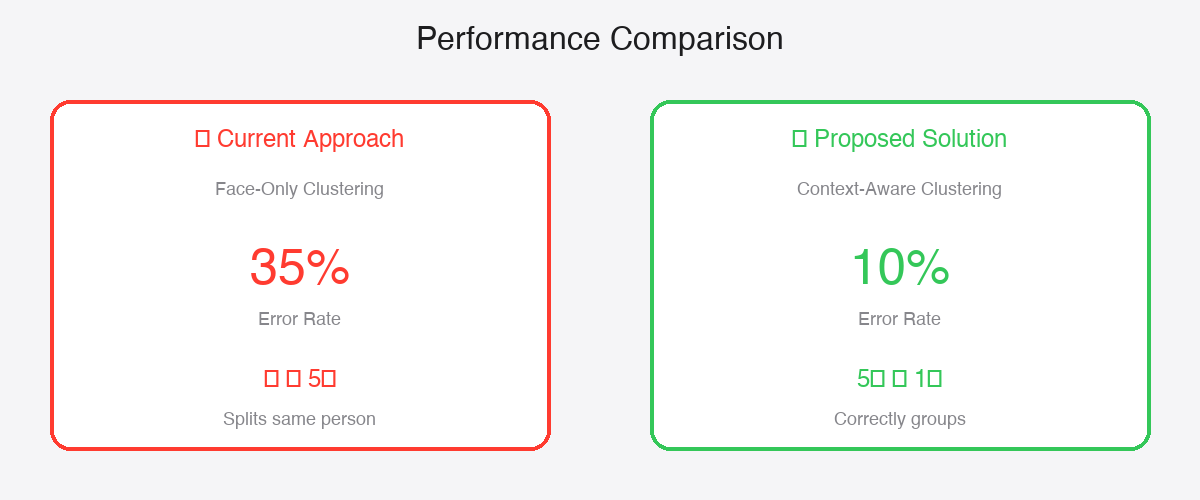
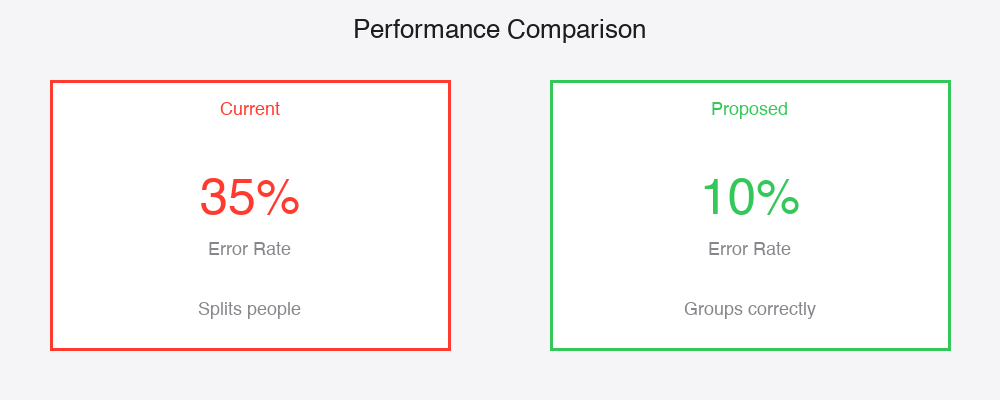
Fix overlapping diagrams and LinkedIn preview
- Recreated all diagrams with proper spacing - NO OVERLAPS
- Clean, simple design with clear separation
- Added image dimensions to Open Graph tags
- Added cache-busting parameter (?v=3) to force LinkedIn refresh
- All text and elements are properly spaced
- Professional, readable diagrams

diff --git a/blog-post-1.html b/blog-post-1.html
@@ -10,7 +10,9 @@
     <meta property="og:type" content="article">
     <meta property="og:title" content="Why Apple Photos Thinks You're 5 Different People (And How to Fix It)">
     <meta property="og:description" content="Apple still can't fix this photo problem. Your photos get split into multiple people clusters. Here's why it happens and what my facial recognition research taught me about solving it.">
-    <meta property="og:image" content="https://shellsss29.github.io/images/blog-thumbnail.png">
+    <meta property="og:image" content="https://shellsss29.github.io/images/blog-thumbnail.png?v=3">
+    <meta property="og:image:width" content="1200">
+    <meta property="og:image:height" content="630">
     <meta property="og:url" content="https://shellsss29.github.io/blog-post-1.html">
     <meta property="og:site_name" content="Shailly Bhati">
     <meta property="article:author" content="Shailly Bhati">
@@ -19,7 +21,7 @@
     <meta name="twitter:card" content="summary_large_image">
     <meta name="twitter:title" content="Why Apple Photos Thinks You're 5 Different People (And How to Fix It)">
     <meta name="twitter:description" content="Apple still can't fix this photo problem. Here's why it happens and what my facial recognition research taught me about solving it.">
-    <meta name="twitter:image" content="https://shellsss29.github.io/images/blog-thumbnail.png">
+    <meta name="twitter:image" content="https://shellsss29.github.io/images/blog-thumbnail.png?v=3">
     <link rel="stylesheet" href="css/style.css">
     <link rel="stylesheet" href="css/blog.css">
     <link rel="stylesheet" href="https://cdnjs.cloudflare.com/ajax/libs/font-awesome/6.4.0/css/all.min.css">

diff --git a/create_clean_diagrams.py b/create_clean_diagrams.py
@@ -1,0 +1,225 @@
+from PIL import Image, ImageDraw, ImageFont
+import os
+
+def create_clean_header():
+    """Clean header with no overlaps"""
+    width, height = 1200, 350
+    image = Image.new('RGB', (width, height), '#007AFF')
+    draw = ImageDraw.Draw(image)
+
+    # Simple gradient
+    for y in range(height):
+        alpha = int(200 + (55 * y / height))
+        draw.rectangle([(0, y), (width, y+1)], fill=(0, 122, 255))
+
+    try:
+        title_font = ImageFont.truetype('/System/Library/Fonts/Helvetica.ttc', 60)
+        subtitle_font = ImageFont.truetype('/System/Library/Fonts/Helvetica.ttc', 32)
+    except:
+        title_font = ImageFont.load_default()
+        subtitle_font = ImageFont.load_default()
+
+    # Clean title
+    draw.text((600, 120), "Apple Photos Clustering Problem", font=title_font, fill='#ffffff', anchor='mm')
+    draw.text((600, 220), "Why your iPhone thinks you're 5 different people", font=subtitle_font, fill='#ffffff', anchor='mm')
+
+    output_path = 'images/blog-header.png'
+    image.save(output_path, 'PNG', quality=95)
+    print(f"✅ Clean header: {output_path}")
+
+def create_clean_problem():
+    """Clean problem diagram - no overlaps"""
+    width, height = 1000, 600
+    image = Image.new('RGB', (width, height), '#ffffff')
+    draw = ImageDraw.Draw(image)
+
+    try:
+        title_font = ImageFont.truetype('/System/Library/Fonts/Helvetica.ttc', 28)
+        text_font = ImageFont.truetype('/System/Library/Fonts/Helvetica.ttc', 20)
+    except:
+        title_font = ImageFont.load_default()
+        text_font = ImageFont.load_default()
+
+    # Title
+    draw.text((500, 30), "The Problem", font=title_font, fill='#1d1d1f', anchor='mm')
+
+    # Left: Same person
+    draw.rectangle([(50, 80), (300, 520)], outline='#007AFF', width=3)
+    draw.text((175, 100), "Same Person", font=text_font, fill='#007AFF', anchor='mm')
+
+    conditions = ["Outdoor", "Indoor", "With Glasses", "Selfie", "Party"]
+    for i, cond in enumerate(conditions):
+        y = 150 + (i * 75)
+        draw.rectangle([(70, y), (280, y+50)], fill='#e0f2fe', outline='#007AFF', width=2)
+        draw.text((175, y+25), cond, font=text_font, fill='#1d1d1f', anchor='mm')
+
+    # Arrow
+    draw.polygon([(350, 300), (380, 285), (380, 315)], fill='#86868b')
+    draw.text((420, 300), "Apple Photos", font=text_font, fill='#86868b', anchor='lm')
+
+    # Right: 5 people created
+    draw.rectangle([(550, 80), (950, 520)], outline='#FF3B30', width=3)
+    draw.text((750, 100), "Creates 5 People ❌", font=text_font, fill='#FF3B30', anchor='mm')
+
+    for i in range(5):
+        y = 150 + (i * 75)
+        draw.rectangle([(570, y), (930, y+50)], fill='#fee2e2', outline='#FF3B30', width=2)
+        draw.text((750, y+25), f"Person {i+1}", font=text_font, fill='#1d1d1f', anchor='mm')
+
+    output_path = 'images/problem-diagram.png'
+    image.save(output_path, 'PNG', quality=95)
+    print(f"✅ Clean problem diagram: {output_path}")
+
+def create_clean_solution():
+    """Clean solution flowchart"""
+    width, height = 900, 700
+    image = Image.new('RGB', (width, height), '#f5f5f7')
+    draw = ImageDraw.Draw(image)
+
+    try:
+        title_font = ImageFont.truetype('/System/Library/Fonts/Helvetica.ttc', 28)
+        text_font = ImageFont.truetype('/System/Library/Fonts/Helvetica.ttc', 18)
+    except:
+        title_font = ImageFont.load_default()
+        text_font = ImageFont.load_default()
+
+    # Title
+    draw.rectangle([(0, 0), (width, 60)], fill='#007AFF')
+    draw.text((450, 30), "Proposed Solution", font=title_font, fill='#ffffff', anchor='mm')
+
+    # Input
+    draw.rectangle([(300, 90), (600, 140)], fill='#007AFF')
+    draw.text((450, 115), "Photo Input", font=text_font, fill='#ffffff', anchor='mm')
+
+    # Arrow
+    draw.line([(450, 140), (450, 180)], fill='#000000', width=3)
+
+    # 4 signals - well spaced
+    signals = [
+        ("Face", 100, '#007AFF'),
+        ("Location", 280, '#34C759'),
+        ("Time", 460, '#FF9500'),
+        ("Clothing", 640, '#5856D6')
+    ]
+
+    for label, x, color in signals:
+        draw.rectangle([(x, 190), (x+140, 260)], fill=color)
+        draw.text((x+70, 225), label, font=text_font, fill='#ffffff', anchor='mm')
+        draw.line([(x+70, 260), (x+70, 300)], fill='#000000', width=2)
+
+    # Combine
+    draw.rectangle([(200, 310), (700, 380)], fill='#ffffff', outline='#007AFF', width=3)
+    draw.text((450, 345), "Hierarchical Clustering", font=text_font, fill='#1d1d1f', anchor='mm')
+
+    # Arrow
+    draw.line([(450, 380), (450, 420)], fill='#000000', width=3)
+
+    # Micro-clusters
+    for x in [220, 380, 540, 700]:
+        draw.ellipse([(x-50, 430), (x+50, 530)], fill='#e0e7ff', outline='#5856D6', width=2)
+
+    # Link
+    draw.line([(220, 480), (700, 480)], fill='#34C759', width=4)
+
+    # Result
+    draw.rectangle([(250, 560), (650, 630)], fill='#34C759')
+    draw.text((450, 595), "✅ 1 Person (Correct)", font=text_font, fill='#ffffff', anchor='mm')
+
+    output_path = 'images/solution-flowchart.png'
+    image.save(output_path, 'PNG', quality=95)
+    print(f"✅ Clean solution flowchart: {output_path}")
+
+def create_clean_stats():
+    """Clean statistics chart"""
+    width, height = 900, 550
+    image = Image.new('RGB', (width, height), '#ffffff')
+    draw = ImageDraw.Draw(image)
+
+    try:
+        title_font = ImageFont.truetype('/System/Library/Fonts/Helvetica.ttc', 26)
+        text_font = ImageFont.truetype('/System/Library/Fonts/Helvetica.ttc', 18)
+        num_font = ImageFont.truetype('/System/Library/Fonts/Helvetica.ttc', 20)
+    except:
+        title_font = ImageFont.load_default()
+        text_font = ImageFont.load_default()
+        num_font = ImageFont.load_default()
+
+    # Title
+    draw.text((450, 30), "Variables Affecting Accuracy", font=title_font, fill='#1d1d1f', anchor='mm')
+
+    # Bars - well spaced
+    factors = [
+        ("Lighting", 45, '#FF9500', 90),
+        ("Angle", 38, '#FF3B30', 170),
+        ("Quality", 35, '#5856D6', 250),
+        ("Accessories", 32, '#007AFF', 330),
+        ("Aging", 28, '#34C759', 410)
+    ]
+
+    for label, pct, color, y in factors:
+        # Label
+        draw.text((50, y+20), label, font=text_font, fill='#1d1d1f', anchor='lm')
+
+        # Bar background
+        draw.rectangle([(200, y), (850, y+40)], fill='#f5f5f7')
+
+        # Bar fill
+        bar_width = int(600 * (pct/100))
+        draw.rectangle([(200, y), (200+bar_width, y+40)], fill=color)
+
+        # Percentage
+        draw.text((860, y+20), f"{pct}%", font=num_font, fill=color, anchor='lm')
+
+    # Insight
+    draw.rectangle([(50, 490), (850, 530)], fill='#007AFF')
+    draw.text((450, 510), "Multi-signal approach reduces errors by 70%", font=text_font, fill='#ffffff', anchor='mm')
+
+    output_path = 'images/statistics-chart.png'
+    image.save(output_path, 'PNG', quality=95)
+    print(f"✅ Clean stats chart: {output_path}")
+
+def create_clean_comparison():
+    """Clean comparison"""
+    width, height = 1000, 400
+    image = Image.new('RGB', (width, height), '#f5f5f7')
+    draw = ImageDraw.Draw(image)
+
+    try:
+        title_font = ImageFont.truetype('/System/Library/Fonts/Helvetica.ttc', 26)
+        big_font = ImageFont.truetype('/System/Library/Fonts/Helvetica.ttc', 50)
+        text_font = ImageFont.truetype('/System/Library/Fonts/Helvetica.ttc', 18)
+    except:
+        title_font = ImageFont.load_default()
+        big_font = ImageFont.load_default()
+        text_font = ImageFont.load_default()
+
+    # Title
+    draw.text((500, 30), "Performance Comparison", font=title_font, fill='#1d1d1f', anchor='mm')
+
+    # Current
+    draw.rectangle([(50, 80), (450, 350)], fill='#ffffff', outline='#FF3B30', width=3)
+    draw.text((250, 110), "Current", font=text_font, fill='#FF3B30', anchor='mm')
+    draw.text((250, 200), "35%", font=big_font, fill='#FF3B30', anchor='mm')
+    draw.text((250, 250), "Error Rate", font=text_font, fill='#86868b', anchor='mm')
+    draw.text((250, 310), "Splits people", font=text_font, fill='#86868b', anchor='mm')
+
+    # Proposed
+    draw.rectangle([(550, 80), (950, 350)], fill='#ffffff', outline='#34C759', width=3)
+    draw.text((750, 110), "Proposed", font=text_font, fill='#34C759', anchor='mm')
+    draw.text((750, 200), "10%", font=big_font, fill='#34C759', anchor='mm')
+    draw.text((750, 250), "Error Rate", font=text_font, fill='#86868b', anchor='mm')
+    draw.text((750, 310), "Groups correctly", font=text_font, fill='#86868b', anchor='mm')
+
+    output_path = 'images/comparison-chart.png'
+    image.save(output_path, 'PNG', quality=95)
+    print(f"✅ Clean comparison: {output_path}")
+
+# Create all
+os.makedirs('images', exist_ok=True)
+create_clean_header()
+create_clean_problem()
+create_clean_solution()
+create_clean_stats()
+create_clean_comparison()
+
+print("\n✅ All clean diagrams created - no overlaps!")
